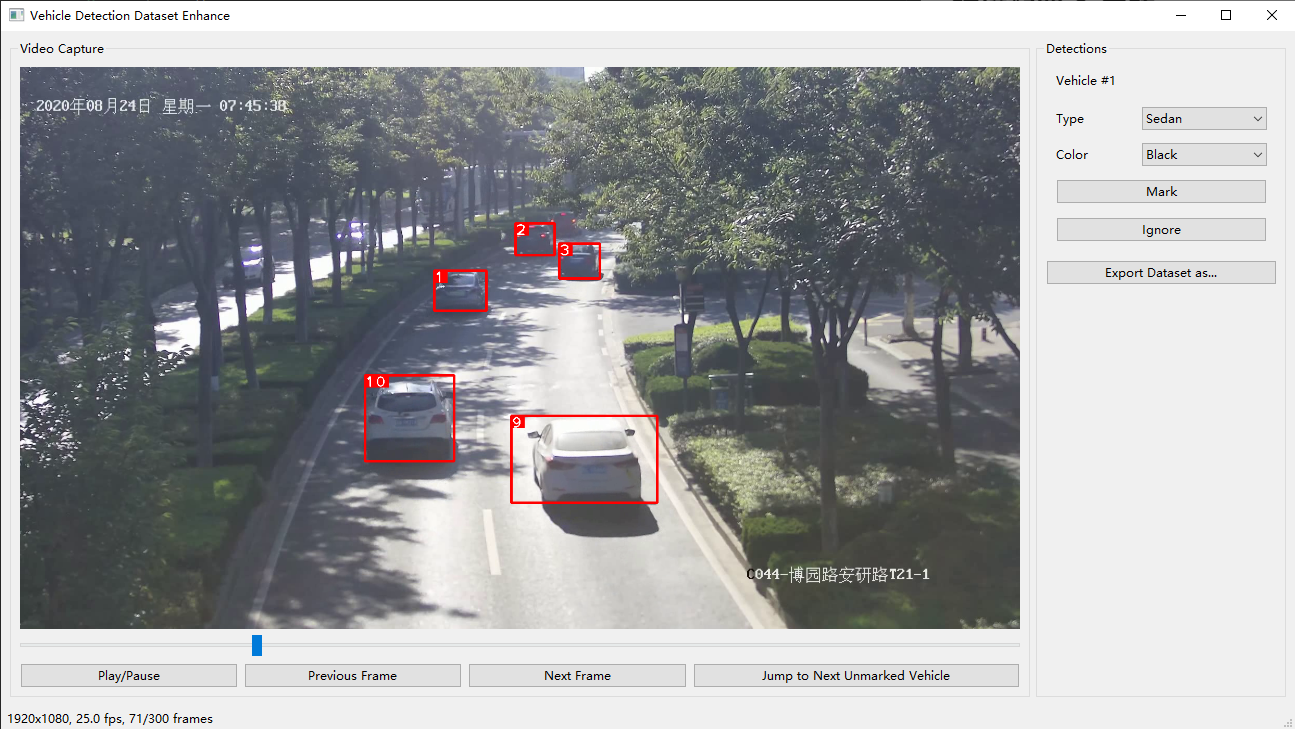
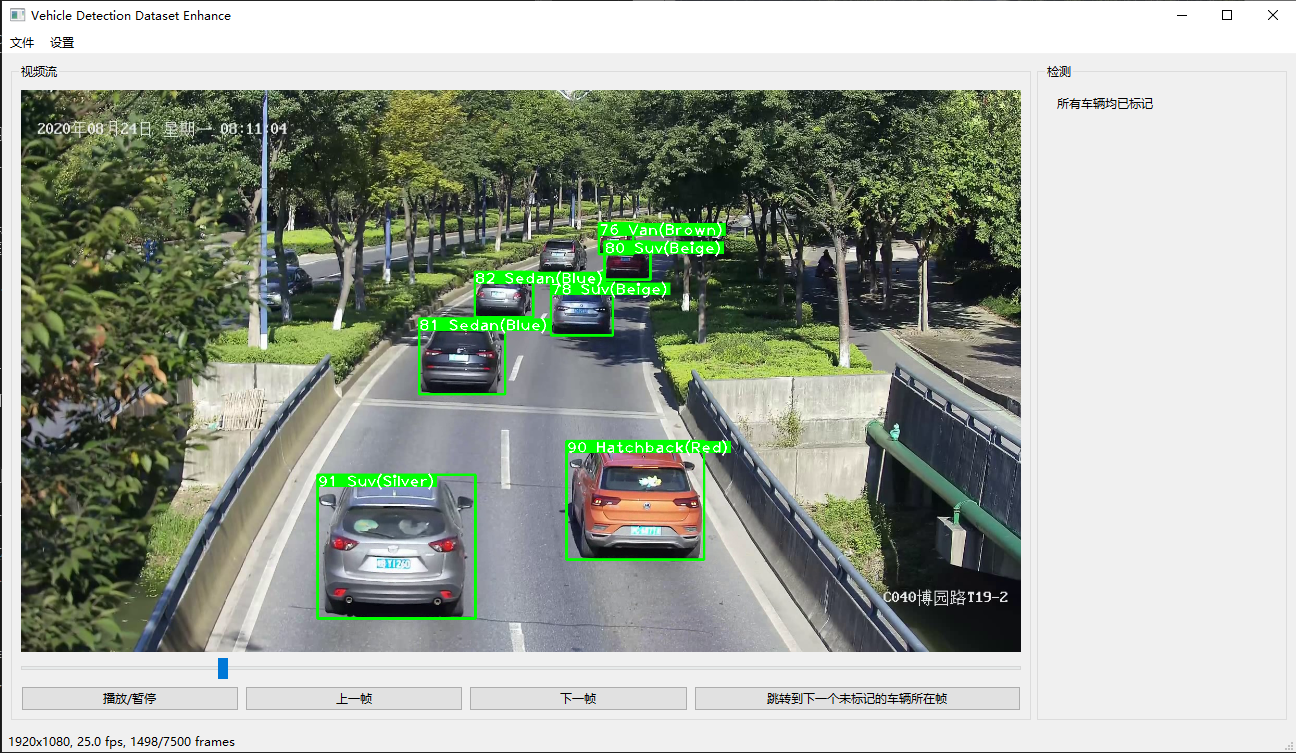
[update] version 2

diff --git a/src/lib/call_main_window.py b/src/lib/call_main_window.py
@@ -2,8 +2,10 @@ import threading
 import time
 from collections import defaultdict
 
-from PyQt5.QtWidgets import QFileDialog, QMainWindow, QAction
+from PyQt5.QtGui import QKeySequence
+from PyQt5.QtWidgets import QFileDialog, QMainWindow, QAction, QApplication, QShortcut
 from PyQt5.QtGui import QImage, QPixmap
+from PyQt5.QtCore import *
 
 from lib.call_dialog import Dialog
 from lib.main_window import Ui_MainWindow
@@ -17,15 +19,62 @@ from cv2 import cv2
 class MainWindow(QMainWindow, Ui_MainWindow):
     def __init__(self):
         super().__init__()
+        self.names = ['Sedan',
+                      'Hatchback',
+                      'Suv',
+                      'Taxi',
+                      'Bus',
+                      'Van',
+                      'MiniVan',
+                      'Truck-Box-Large',
+                      'Truck-Box-Med',
+                      'Truck-Util',
+                      'Truck-Flatbed',
+                      'Truck-Pickup',
+                      'Police',
+                      'Red',
+                      'Orange',
+                      'Yellow',
+                      'Green',
+                      'Blue',
+                      'Beige',
+                      'Brown',
+                      'White',
+                      'Silver',
+                      'Gray',
+                      'Black',
+                      'Multi']
         self.setupUi(self)
+        self.mark_map = None
+        self.cap = None
         self.createProjectButton.triggered.connect(self.new_project)
         self.loadProjectButton.triggered.connect(self.load_project)
         self.settingButton.triggered.connect(self.setting)
+        self.saveProjectButton.triggered.connect(self.save)
         self.exportData.setEnabled(False)
         self.saveProjectButton.setEnabled(False)
         self.groupBox.setHidden(True)
         self.groupBox_2.setHidden(True)
         self.show()
+        QShortcut(QKeySequence.Undo, self, self.undo)
+        QShortcut(QKeySequence.Save, self, self.save)
+        QShortcut(Qt.Key_Space, self, self.jump_to_next_unmarked_vehicle)
+
+    def wheelEvent(self, event) -> None:
+        angle = event.angleDelta().y()
+        self.change_frame(int(-angle / 60))
+
+    def save(self):
+        if not self.mark_map:
+            return
+        with open(self.path, 'w') as fd3:
+            for key in self.mark_map:
+                fd3.write(f'{key} {self.mark_map[key][0]} {self.mark_map[key][1]}\n')
+        fd3.close()
+
+    def undo(self):
+        if self.mark_map:
+            self.mark_map.popitem()
 
     def setting(self):
         self.setting_dialog = SettingDialog()
@@ -49,6 +98,7 @@ class MainWindow(QMainWindow, Ui_MainWindow):
         try:
             # Init mark dict
             self.mark_map = {}
+            self.path = path
             cap = cv2.VideoCapture(project_dir + '/video.mkv')
             fd = open(project_dir + '/track_results.txt', 'r')
             fd2 = open(project_dir + '/detection_results.txt', 'r')
@@ -57,6 +107,7 @@ class MainWindow(QMainWindow, Ui_MainWindow):
             for line in fd2:
                 arr = line.strip().split(' ')
                 detections[int(arr[0])].append([float(arr[1]), float(arr[2]), float(arr[3]), float(arr[4])])
+            fd2.close()
             # Load tracks
             track_results = defaultdict(list)
             identities = set([])
@@ -64,13 +115,15 @@ class MainWindow(QMainWindow, Ui_MainWindow):
                 arr = line.strip().split(' ')
                 track_results[int(arr[0])].append([int(arr[2]), int(arr[3]), int(arr[4]), int(arr[5]), int(arr[1])])
                 identities.add(int(arr[1]))
+            fd.close()
             # Load progress
             with open(path, 'r') as fd3:
                 for line in fd3:
                     arr = line.strip().split(' ')
                     if len(arr) == 0:
                         continue
-                    self.markmap[int(arr[0])] = (int(arr[1]), int(arr[2]))
+                    self.mark_map[int(arr[0])] = (int(arr[1]), int(arr[2]))
+                fd3.close()
         except Exception as e:
             print(e)
             self.dialog = Dialog("请选择正确的工程文件")
@@ -78,6 +131,8 @@ class MainWindow(QMainWindow, Ui_MainWindow):
         self.init_video(cap, track_results, detections, identities)
 
     def init_video(self, cap, track_results, detections, identities):
+        if self.cap:
+            self.cap.cap.release()
         # Show Group Box
         self.groupBox.setHidden(False)
         self.groupBox_2.setHidden(False)
@@ -125,6 +180,8 @@ class MainWindow(QMainWindow, Ui_MainWindow):
         self.cap.frame_no = self.videoSlider.value()
 
     def change_frame(self, value):
+        if not self.cap:
+            return
         self.cap.playing = False
         self.cap.frame_no += value
         if self.cap.frame_no < 0:
@@ -134,6 +191,8 @@ class MainWindow(QMainWindow, Ui_MainWindow):
         # self.videoSlider.setValue(self.cap.frame_no)
 
     def jump_to_next_unmarked_vehicle(self):
+        if not self.cap:
+            return
         for i in range(self.cap.frame_no, self.cap.frame_count):
             for detections in self.track_results[i]:
                 if detections[4] not in self.mark_map:
@@ -220,8 +279,16 @@ class VideoThread(threading.Thread):
         for box in boxes:
             x1, y1, x2, y2 = box[0], box[1], box[2], box[3]
             id = box[4]
-            label = '{}{:d}'.format("", id)
-            color = (0, 0, 255) if id not in self.window.mark_map else (0, 255, 0)
+            label = f"{id}"
+            if id in self.window.mark_map:
+                color = (0, 255, 0)
+                t = self.window.mark_map[id]
+                if t[0] != -1:
+                    label += f" {self.window.names[t[0]]}({self.window.names[t[1]]})"
+            elif self.window.identity == id:
+                color = (255, 0, 0)
+            else:
+                color = (0, 0, 255)
             # print(color)
             t_size = cv2.getTextSize(label, cv2.FONT_HERSHEY_PLAIN, 2, 2)[0]
             cv2.rectangle(self.frame, (x1, y1), (x2, y2), color, 3)
@@ -236,7 +303,7 @@ class VideoThread(threading.Thread):
             for box in boxes:
                 cx, cy = (box[0] + box[2]) / 2, (box[1] + box[3]) / 2
                 for detection in detections:
-                    if abs(cx - detection[0]) < self.w / 50 and abs(cy - detection[1]) < self.h / 50:
+                    if abs(cx - detection[0]) < self.w / 10 and abs(cy - detection[1]) < self.h / 50:
                         box[0] = int(detection[0] - detection[2] / 2)
                         box[1] = int(detection[1] - detection[3] / 2)
                         box[2] = int(detection[0] + detection[2] / 2)

diff --git a/src/create_project.py b/src/create_project.py
@@ -69,10 +69,8 @@ def draw_boxes(img, bbox, identities=None, offset=(0,0)):
 
 # Class / Thread for creating a new project
 class ProjectCreateThread(threading.Thread):
-    def __init__(self, opt, progressBar, pushButton):
+    def __init__(self, opt):
         super(ProjectCreateThread, self).__init__()
-        self.progressBar = progressBar
-        self.pushButton = pushButton
         self.opt = opt
         self.setDaemon(True)
         self.exitcode = 0
@@ -223,10 +221,6 @@ class ProjectCreateThread(threading.Thread):
 
                 # Print time (inference + NMS)
                 print('%s %sDone. (%.3fs)' % (caption, s, t2 - t1))
-                new_progress = int(self.progress_bar[0] * 100 / self.progress_bar[1])
-                if new_progress != progress:
-                    self.progressBar.setValue(new_progress)
-                    progress = new_progress
 
                 # Stream results
                 if view_img:
@@ -253,4 +247,3 @@ class ProjectCreateThread(threading.Thread):
         if isinstance(vid_writer, cv2.VideoWriter):
             vid_writer.release()
         print('Done. (%.3fs)' % (time.time() - t0))
-        self.pushButton.setEnabled(True)

diff --git a/src/lib/call_create_project_window.py b/src/lib/call_create_project_window.py
@@ -34,7 +34,11 @@ class CreateProjectDialog(QDialog, Ui_Dialog):
 
     def pre_read_video(self):
         try:
-            cap = cv2.VideoCapture(self.videoPath.text())
+            path = self.videoPath.text()
+            filename = path[path.rindex('/')+1:path.rindex('.')]
+            if self.projectName.text() == "":
+                self.projectName.setText(filename)
+            cap = cv2.VideoCapture(path)
             self.fps = cap.get(cv2.CAP_PROP_FPS)
             self.nframes = cap.get(cv2.CAP_PROP_FRAME_COUNT)
             self.startTime.setEnabled(True)

diff --git a/src/lib/call_progress_dialog.py b/src/lib/call_progress_dialog.py
@@ -13,12 +13,10 @@ class ProgressDialog(QDialog, Ui_CreateProgressDialog):
         self.parent = parent
         self.setupUi(self)
         self.opt = opt
-        self.t = ProjectCreateThread(self.opt, self.progressBar, self.pushButton)
+        self.t = ProjectCreateThread(self.opt)
         self.show()
         self.t.start()
-        self.pushButton.clicked.connect(self.finish_create)
-        self.pushButton.setEnabled(False)
-
-    def finish_create(self):
+        self.t.join()
         self.close()
         self.parent.finish_create()
+

diff --git a/README.md b/README.md
@@ -8,9 +8,11 @@ python main.py
 
 ## 使用指南
 
-运行程序后，将会弹出一个选择视频文件和追踪数据的窗口，选择完毕后点击启动程序。
+### 创建项目
 
-![](./images/1.png)
+程序目前已集成 DeepSort， 点击菜单栏的项目->从视频创建新项目即可创建项目。创建项目后项目会自动打开，也可以从菜单栏创建已加载的项目。
+
+### 标注
 
 程序主界面如下图所示，共分为视频捕获区域和检测区域。
 
@@ -20,9 +22,15 @@ python main.py
 
 ![](./images/2.png)
 
-标注完毕后，右侧会提示所有车辆都被标注完毕。点击下方的 Export Dataset as... 即可保存文件。
+#### 快捷键
 
-![](./images/3.png)
+`Ctrl-Z` 撤销上一次标注
+`Ctrl-S` 保存当前项目
+`Space` 跳转到下个未标记的车辆
+
+### 保存
+
+标注完毕后，右侧会提示所有车辆都被标注完毕。点击文件->导出数据即可导出数据。
 
 保存的文件如下格式所示：
 ```
@@ -39,9 +47,9 @@ python main.py
 ```
 从左到右分别代表了视频的第几帧、车辆种类、车辆颜色、检测框中心点的xy坐标、宽度w和高度h。
 
+
+
 ## 待添加的功能
+- 切割追踪框
 - 手动加入识别框
 - 用于过滤识别框的约束或包围盒
-
-## 备注
-- 该工具暂未集成 Deepsort 或其他的追踪框架，源数据和视频需要自行导入
